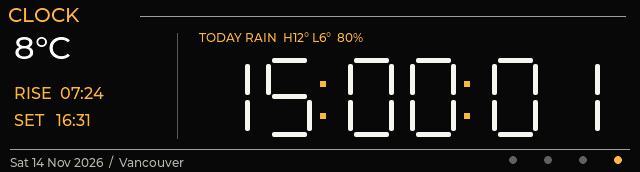
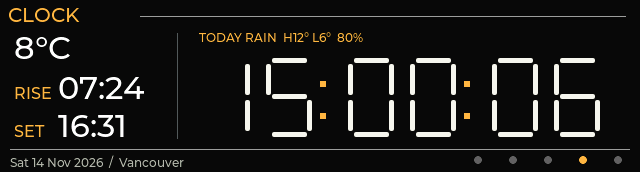
englarge sun rise/set time

diff --git a/main/ui.cpp b/main/ui.cpp
@@ -202,8 +202,11 @@ static void render_page(){
         }
     }else{
         clock_temperature=label(content,"--°C",14,0,&lv_font_montserrat_32,lv_color_white());
-        clock_sunrise=label(content,"RISE  --:--",14,54,&lv_font_montserrat_16,amber());
-        clock_sunset=label(content,"SET   --:--",14,81,&lv_font_montserrat_16,amber());
+        // Captions stay small; the times use the same 32 px white digits as the temperature.
+        label(content,"RISE",14,54,&lv_font_montserrat_16,amber());
+        label(content,"SET",14,92,&lv_font_montserrat_16,amber());
+        clock_sunrise=label(content,"--:--",58,40,&lv_font_montserrat_32,lv_color_white());
+        clock_sunset=label(content,"--:--",58,78,&lv_font_montserrat_32,lv_color_white());
         rule(content,177,3,1,106,0x555a58);
         clock_forecast=label(content,"WEATHER UNAVAILABLE",199,0,&lv_font_montserrat_12,amber());
         lv_obj_set_width(clock_forecast,425);lv_label_set_long_mode(clock_forecast,LV_LABEL_LONG_CLIP);
@@ -302,9 +305,9 @@ static void tick(lv_timer_t*){
             char value[48];
             if(weather_ok && (w.flags&1))snprintf(value,sizeof(value),"%.0f°C",w.temperature/10.f);else snprintf(value,sizeof(value),"--°C");
             lv_label_set_text(clock_temperature,value);
-            if(weather_ok && (w.flags&4))snprintf(value,sizeof(value),"RISE  %02u:%02u",w.sunrise/60,w.sunrise%60);else snprintf(value,sizeof(value),"RISE  --:--");
+            if(weather_ok && (w.flags&4))snprintf(value,sizeof(value),"%02u:%02u",w.sunrise/60,w.sunrise%60);else snprintf(value,sizeof(value),"--:--");
             lv_label_set_text(clock_sunrise,value);
-            if(weather_ok && (w.flags&8))snprintf(value,sizeof(value),"SET   %02u:%02u",w.sunset/60,w.sunset%60);else snprintf(value,sizeof(value),"SET   --:--");
+            if(weather_ok && (w.flags&8))snprintf(value,sizeof(value),"%02u:%02u",w.sunset/60,w.sunset%60);else snprintf(value,sizeof(value),"--:--");
             lv_label_set_text(clock_sunset,value);
             char forecast[100];
             if(weather_ok && (w.flags&2)){

diff --git a/scripts/ui_preview/preview.cpp b/scripts/ui_preview/preview.cpp
@@ -92,6 +92,8 @@ int main(int argc,char **argv){
     static lv_indev_drv_t input;lv_indev_drv_init(&input);input.type=LV_INDEV_TYPE_POINTER;input.read_cb=input_read;lv_indev_drv_register(&input);
 
     ui_start();
+    // A weather fixture reports a city immediately. Let that arrival notice finish before the title clicks select a page.
+    if(std::getenv("TRAILSTRIP_PREVIEW_WEATHER") && !std::getenv("TRAILSTRIP_PREVIEW_CITY")){preview_time_us+=5000000;step();step();}
     for(int i=0;i<(argc>4?std::atoi(argv[4]):0);i++)lv_event_send(lv_obj_get_child(lv_scr_act(),0),LV_EVENT_CLICKED,nullptr);
     lv_tick_inc(60);lv_timer_handler();lv_refr_now(nullptr);
     for(int i=0;i<(argc>6?std::atoi(argv[6]):0);i++){pressed=true;step();pressed=false;step();}

diff --git a/README.md b/README.md
@@ -125,7 +125,7 @@ Camp → **SET ZERO** opens a confirmation prompt. Park level and hold still, th
 
 ### Clock city and weather
 
-CLOCK now shows temperature (°C), sunrise and sunset on the left; the large clock on the right; today's forecast, high/low and precipitation chance above the digits; and date/city in the footer. City replaces PHONE LOCAL TIME. Start a session in the updated iPhone app with Location permission and internet access. No API key is needed for this personal prototype. Weather is supplied by [Open-Meteo](https://open-meteo.com/) with attribution in the app; city lookup uses Apple.
+CLOCK now shows temperature (°C) and large white sunrise and sunset times on the left; the large clock on the right; today's forecast, high/low and precipitation chance above the digits; and date/city in the footer. City replaces PHONE LOCAL TIME. Start a session in the updated iPhone app with Location permission and internet access. No API key is needed for this personal prototype. Weather is supplied by [Open-Meteo](https://open-meteo.com/) with attribution in the app; city lookup uses Apple.
 
 Forecast refreshes about every 15 minutes and after moving 5 km, with retries no more than once a minute. Cached weather expires after 30 minutes; old dates, missing sun events and unavailable weather display dashes. The clock itself remains available as long as phone time sync is fresh. City names are transliterated/truncated to 16 characters on the gadget. Sunrise/sunset use the same phone timezone as the clock.
 
